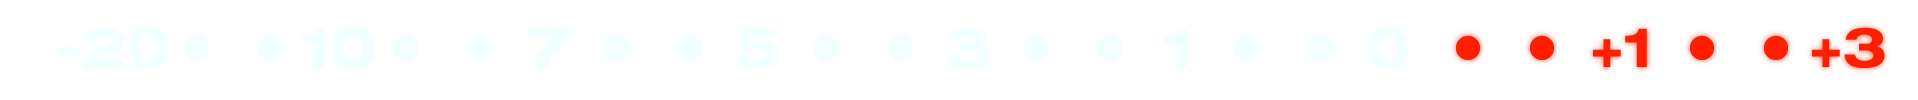
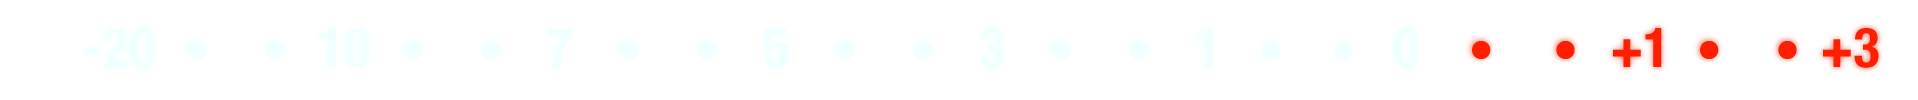
chore: add more compose1 meters from Alex Aust

Changed region(s): [[0.7383, 0.27, 0.9844, 0.69]]

diff --git a/assets/visualisers/vumeters/README.md b/assets/visualisers/vumeters/README.md
@@ -39,6 +39,10 @@ see
 * ./Alex_speakers2
 * ./Alex_vfd
 * ./Alex_needle
+* ./VFD2
+* ./VFD3
+* ./LED2
+* ./LED3
 
 ### From tcz-jivelite
 The following images are from https://github.com/ralph-irving/tcz-jivelite of which
